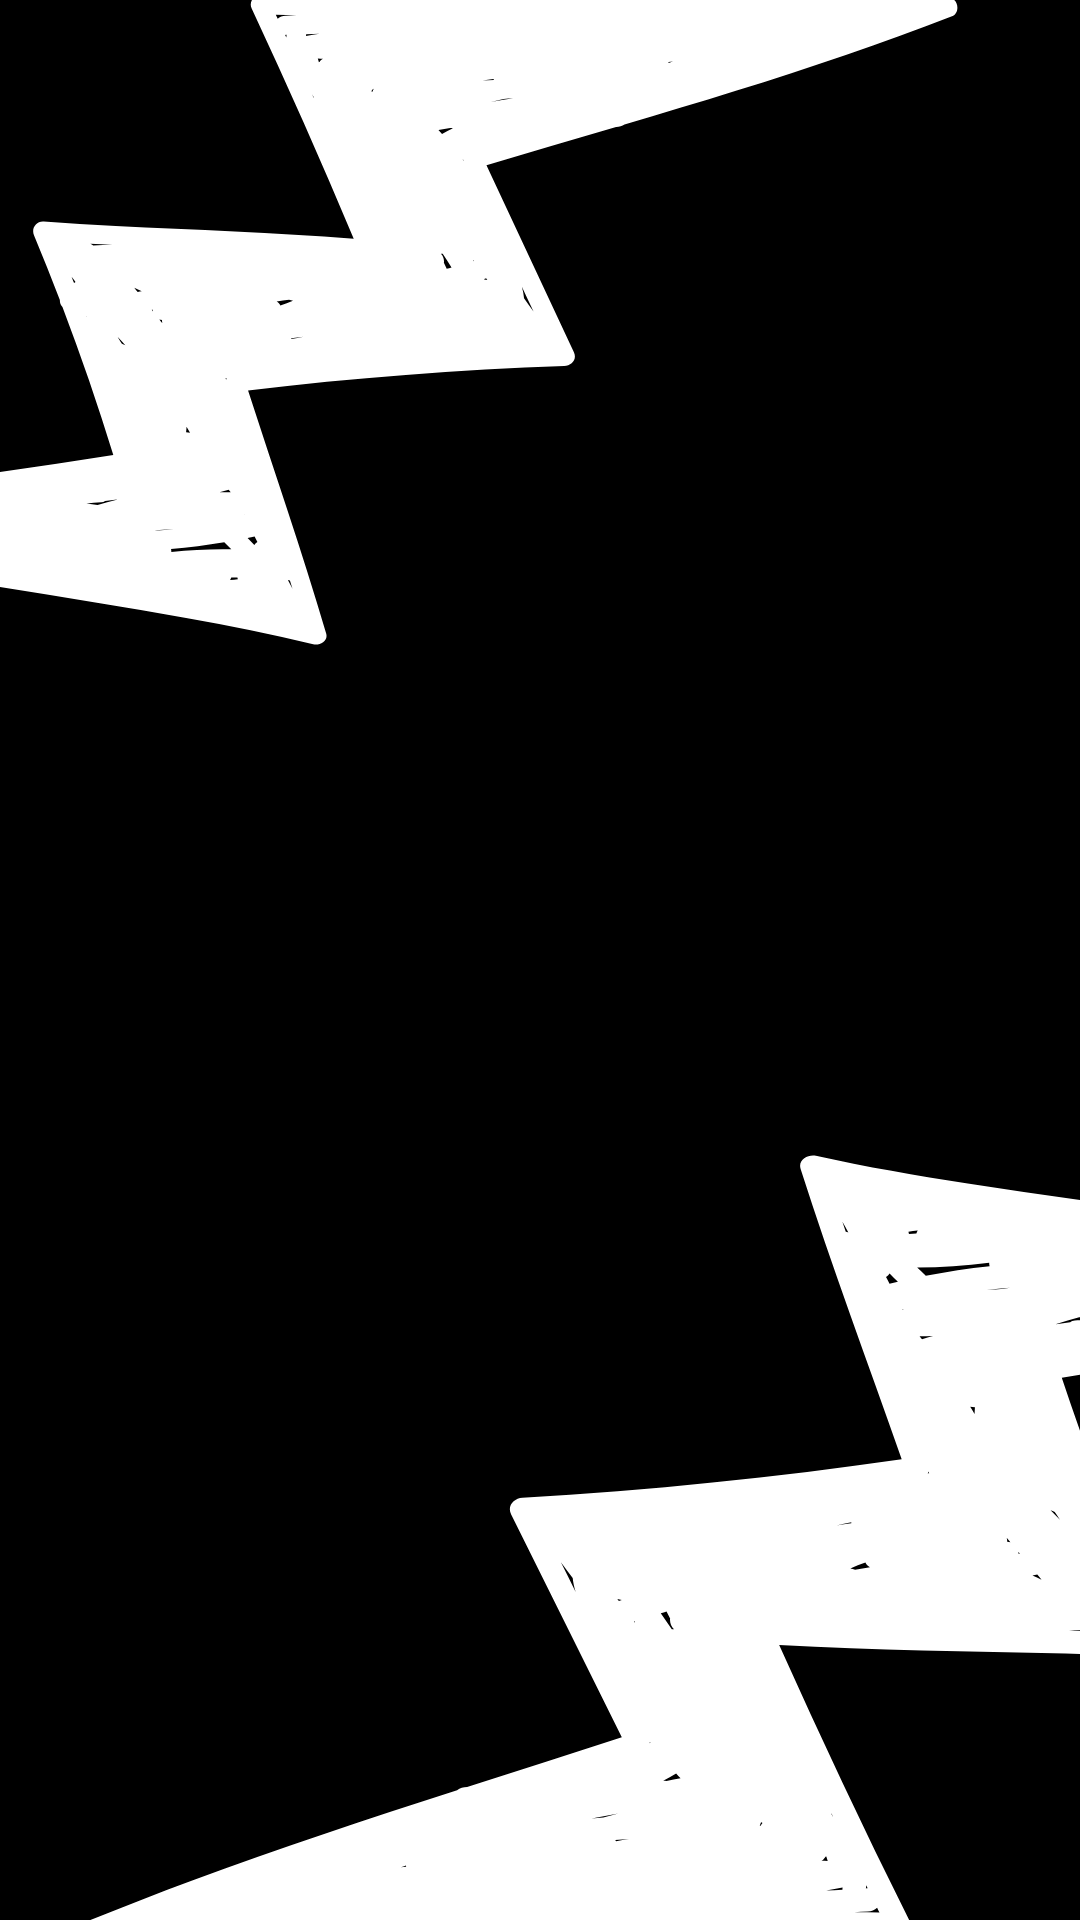
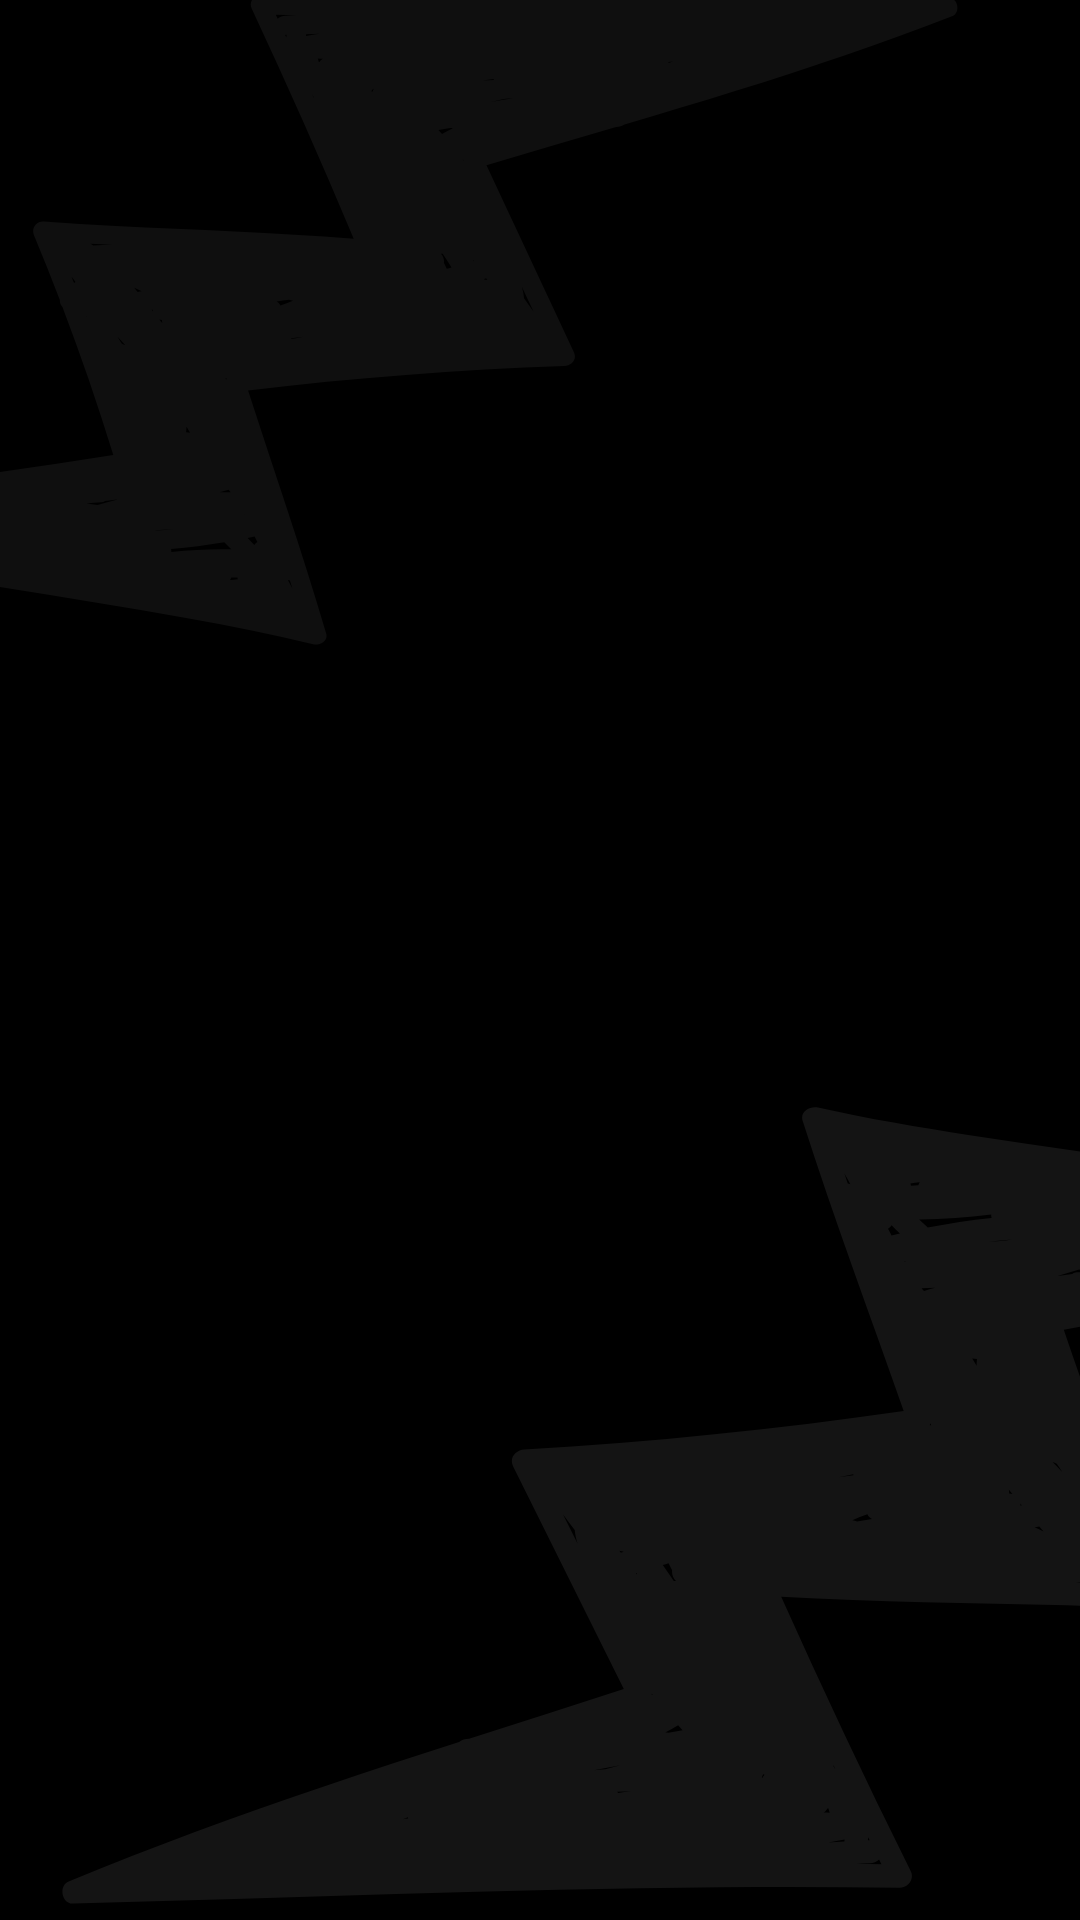
Meejora

Changed region(s): [[0.0917, 0.5938, 1.0, 1.0], [0.0, 0.0, 0.8861, 0.3438]]

diff --git a/frontend/src/components/Bienvenido.jsx b/frontend/src/components/Bienvenido.jsx
@@ -1,36 +1,14 @@
-
 import React, { useState, useEffect } from 'react';
 
 const Bienvenido = ({ onNavigate }) => {
   const [isMobile, setIsMobile] = useState(window.innerWidth < 768);
-  const [fase, setFase] = useState(1); // Controla si estamos en fase 1, 2 o 3
-  const [isHovered, setIsHovered] = useState(false); // Para el efecto hover de la píldora
-  const [mobileShowOffer, setMobileShowOffer] = useState(false); // Para alternar en móvil
 
   useEffect(() => {
-    // Control de responsive para fondos
     const handleResize = () => {
       setIsMobile(window.innerWidth < 768);
     };
     window.addEventListener('resize', handleResize);
-
-    // Temporizador para alternar entre las 3 fases automáticamente
-    const intervalFases = setInterval(() => {
-      setFase((prevFase) => (prevFase === 3 ? 1 : prevFase + 1));
-    }, 4000); // Cambia de fase cada 4 segundos
-
-    // Temporizador exclusivo para móvil que alterna el texto del botón cada 2.5 segundos
-    const intervalMobile = setInterval(() => {
-      if (window.innerWidth < 768) {
-        setMobileShowOffer((prev) => !prev);
-      }
-    }, 2500);
-
-    return () => {
-      window.removeEventListener('resize', handleResize);
-      clearInterval(intervalFases);
-      clearInterval(intervalMobile);
-    };
+    return () => window.removeEventListener('resize', handleResize);
   }, []);
 
   const handleOfertas = () => {
@@ -43,140 +21,145 @@ const Bienvenido = ({ onNavigate }) => {
     }, 100);
   };
 
-  // Si pones el mouse en compu O si el temporizador de móvil está activo, muestra "VER OFERTAS"
-  const showCallToAction = isHovered || (isMobile && mobileShowOffer);
-
   return (
-    // 🔥 Aumentamos la altura en desktop (md:h-[90vh]) para bajar el contenido hasta el límite del corte 🔥
-    <div className="relative w-full h-[360px] md:h-[85vh] overflow-hidden flex flex-col justify-center items-center font-sans pb-32">
+    <div 
+      className="relative w-full md:h-[85vh] md:min-h-[600px] overflow-hidden flex flex-col justify-between items-center font-sans py-4 md:py-12"
+      style={{
+        minHeight: isMobile ? '500px' : 'max(65vh, 600px)'
+      }}
+    >
       
       <style>
         {`
-          /* 🔥 BOTÓN BLANCO ANIMADO CON BRILLO 🔥 */
-          @keyframes btnWhitePulse {
-            0%   { background-color: #ffffff; box-shadow: 0 0 10px rgba(255, 255, 255, 0.3); } 
-            50%  { background-color: #f8fafc; box-shadow: 0 0 25px rgba(255, 255, 255, 0.7); } 
-            100% { background-color: #ffffff; box-shadow: 0 0 10px rgba(255, 255, 255, 0.3); }
+          @keyframes cardEntrance {
+            0% { opacity: 0; transform: translateY(25px) scale(0.95); }
+            100% { opacity: 1; transform: translateY(0) scale(1); }
           }
-          .animate-btn-white { animation: btnWhitePulse 3s ease-in-out infinite; }
-
-          /* Animación suave para cuando rotan las fases de las camisetas */
-          @keyframes phaseZoomIn {
-            0% { opacity: 0; transform: scale(0.93) translateY(8px); }
-            100% { opacity: 1; transform: scale(1) translateY(0); }
+          .animate-card-1 { animation: cardEntrance 0.6s cubic-bezier(0.16, 1, 0.3, 1) forwards; animation-delay: 0.1s; opacity: 0; }
+          .animate-card-2 { animation: cardEntrance 0.6s cubic-bezier(0.16, 1, 0.3, 1) forwards; animation-delay: 0.22s; opacity: 0; }
+          .animate-card-3 { animation: cardEntrance 0.6s cubic-bezier(0.16, 1, 0.3, 1) forwards; animation-delay: 0.34s; opacity: 0; }
+          
+          @keyframes btnEntrance {
+            0% { opacity: 0; transform: translateY(15px) scale(0.95); }
+            100% { opacity: 1; transform: translateY(0) scale(1); }
           }
-          .animate-phase { animation: phaseZoomIn 0.5s cubic-bezier(0.16, 1, 0.3, 1) forwards; }
+          .animate-btn-enter { animation: btnEntrance 0.6s cubic-bezier(0.16, 1, 0.3, 1) forwards; animation-delay: 0.45s; opacity: 0; }
         `}
       </style>
 
-      {/* 🖼️ CAPA BASE: Fondo dinámico (Móvil vs Desktop) */}
+      {/* 🖼️ CAPA BASE: Fondo dinámico */}
       <div 
         className="absolute inset-0 bg-cover bg-center bg-no-repeat z-0 pointer-events-none transition-all duration-700"
         style={{ backgroundImage: `url(${isMobile ? '/FondoMovil.png' : '/FondoDes.png'})` }}
       ></div>
       
-      {/* Capa de oscurecimiento para resaltar las prendas */}
-      <div className={`absolute inset-0 ${isMobile ? 'bg-black/30' : 'bg-black/50'} z-10 pointer-events-none`}></div>
+      {/* Capa de oscurecimiento */}
+      <div className="absolute inset-0 bg-black/50 z-10 pointer-events-none"></div>
 
-      {/* --- CONTENIDO PRINCIPAL --- */}
-      <div className="relative z-20 flex flex-col justify-end items-center w-full max-w-4xl px-4">
-
-        {/* 🔥 CONTENEDOR DINÁMICO DE FASES (CAMISETAS) 🔥 */}
-        <div className=" relative z-20 min-h-[220px] md:min-h-[320px] flex flex-col justify-center items-center mt-16 md:mt-28 mb-2">
-          
-          {/* --- FASE 1: 1 Camiseta --- */}
-          {fase === 1 && (
-            <div className="flex flex-col items-center animate-phase">
-              <div className="pb-8 w-60 md:w-80 relative z-10">
-                <img src="/Mundial.png" className="w-full h-auto object-contain drop-shadow-[0_25px_50px_rgba(0,0,0,0.9)]" alt="1 Camiseta"/>
-              </div>
-            </div>
-          )}
-
-          {/* --- FASE 2: 2 Camisetas --- */}
-          {fase === 2 && (
-            <div className="flex flex-col items-center animate-phase">
-              <div className="flex justify-center items-center w-60 md:w-80 relative z-10">
-                <img src="/Mundial.png" className="w-80 md:w-80 h-auto object-contain -mr-16 md:-mr-20 z-20 drop-shadow-[0_25px_50px_rgba(0,0,0,0.95)]" alt="Camiseta 1"/>
-                <img src="/Fan2.png" className="w-80 md:w-80 h-auto object-contain z-10 drop-shadow-[0_15px_30px_rgba(0,0,0,0.8)] scale-95 transform translate-y-1" alt="Camiseta 2"/>
-              </div>
-            </div>
-          )}
-
-          {/* --- FASE 3: 3 Camisetas --- */}
-          {fase === 3 && (
-            <div className="flex flex-col items-center animate-phase">
-              <div className="flex justify-center items-center w-68 md:w-[400px] relative z-10">
-                {/* Camiseta 1: Mantenemos w-80 y la pegamos al centro con -mr-32 md:-mr-48 */}
-                <img src="/Mundial.png" className="w-60 md:w-80 h-auto object-contain -mr-32 md:-mr-48 z-30 drop-shadow-[0_25px_50px_rgba(0,0,0,0.95)]" alt="Camiseta 1"/>
-                
-                {/* Camiseta 2: Se queda en el centro intacta con w-80 */}
-                <img src="/Fan2.png" className="w-60 md:w-80 h-auto object-contain z-20 drop-shadow-[0_20px_40px_rgba(0,0,0,0.85)] scale-95 transform -translate-y-2" alt="Camiseta 2"/>
-                
-                {/* Camiseta 3: Ajustada a w-80 y pegada hacia la izquierda con -ml-32 md:-ml-48 */}
-                <img src="/Player2.png" className="w-60 md:w-80 h-auto object-contain -ml-32 md:-ml-48 z-10 drop-shadow-[0_15px_30px_rgba(0,0,0,0.7)] scale-90 transform translate-y-1" alt="Camiseta 3"/>
-              </div>
-            </div>
-          )}
-
-        </div>
+      {/* --- CONTENEDOR DE LAS 3 OFERTAS --- */}
+      <div className="relative z-20 flex flex-col md:flex-row items-stretch md:items-center justify-around w-full max-w-6xl px-4 md:px-8 flex-grow my-auto gap-3.5 md:gap-6 py-2">
         
-        {/* 🔥 PÍLDORA INTERACTIVA 2 EN 1 (MÁS COMPACTA EN MÓVIL, GIGANTE EN DESKTOP) 🔥 */}
-        <div className="relative z-30 mt-8 md:mt-16 flex flex-col items-center">
+        {/* ==================== OFERTA 1 (1 CAMISETA) ==================== */}
+        <div className="animate-card-1 w-full max-w-sm mx-auto md:max-w-none md:w-1/3 bg-black/60 md:bg-transparent border border-white/20 md:border-none rounded-2xl px-5 py-3 md:p-4 shadow-xl overflow-hidden flex flex-row md:flex-col items-center justify-between">
           
-          <button
-            onClick={handleOfertas}
-            onMouseEnter={() => setIsHovered(true)}
-            onMouseLeave={() => setIsHovered(false)}
-            // 👇 AQUÍ AJUSTAMOS EL TAMAÑO: h-14 en móvil (md:h-28), min-w-[250px] en móvil (md:min-w-[540px]), px-8 py-3 en móvil 👇
-            className="group bg-white text-gray-950 border-2 border-gray-100 px-8 py-3 md:px-24 md:py-8 rounded-full font-black text-base sm:text-lg md:text-4xl transition-all duration-300 hover:scale-105 animate-btn-white uppercase tracking-wider shadow-[0_20px_50px_rgba(0,0,0,0.9)] flex items-center justify-center min-w-[250px] md:min-w-[540px] h-14 md:h-28 cursor-pointer select-none"
-          >
-            {/* Si el mouse está encima (o en móvil el temporizador activa la llamada), muestra VER OFERTAS */}
-            {showCallToAction ? (
-              <span className="flex items-center gap-2 md:gap-4 text-black animate-fade-in font-extrabold tracking-widest text-lg md:text-4xl">
-                <span>VER OFERTAS </span>
-              </span>
-            ) : (
-              <span className="flex items-center gap-2 md:gap-5 transition-opacity duration-300">
-                {fase === 1 && (
-                  <>
-                    <span className="text-gray-500 font-bold text-base md:text-3xl">1 POR</span>
-                    <span className="font-black text-black tracking-tighter text-xl md:text-5xl">₡15.000</span>
-                  </>
-                )}
-                {fase === 2 && (
-                  <>
-                    <span className="text-gray-500 font-bold text-base md:text-3xl">2 POR</span>
-                    <span className="font-black text-black tracking-tighter text-xl md:text-5xl">₡27.000</span>
-                  </>
-                )}
-                {fase === 3 && (
-                  <>
-                    <span className="text-gray-500 font-bold text-base md:text-3xl">3 POR</span>
-                    <span className="font-black text-black tracking-tighter text-xl md:text-5xl">₡35.000</span>
-                  </>
-                )}
-              </span>
-            )}
-          </button>
+          <div className="flex items-center justify-start md:justify-center w-36 md:w-56 h-20 md:h-48 relative">
+            <img 
+              src="/Mundial.png" 
+              className="w-20 md:w-52 h-auto object-contain drop-shadow-[0_15px_25px_rgba(0,0,0,0.95)]" 
+              alt="1 Camiseta"
+            />
+          </div>
+
+          <div className="flex flex-col items-end md:items-center justify-center md:mt-6 text-right md:text-center">
+            <span className="text-gray-300 font-bold text-xs md:text-xl uppercase tracking-widest drop-shadow-[0_2px_4px_rgba(0,0,0,0.8)]">
+              1 POR
+            </span>
+            <span className="font-black text-white tracking-tighter text-2xl md:text-5xl drop-shadow-[0_4px_10px_rgba(0,0,0,0.9)] leading-none mt-1">
+              ₡15.000
+            </span>
+          </div>
 
         </div>
-      </div>
 
-      {/* 🔥 INDICADORES DE FASE FIJOS HASTA EL BORDE INFERIOR 🔥 */}
-      <div className="absolute bottom-4 md:bottom-8 left-0 right-0 flex gap-3 z-40 items-center justify-center">
-        {[1, 2, 3].map((num) => (
-          <button
-            key={num}
-            onClick={() => setFase(num)}
-            className={`h-[2px] rounded-full transition-all duration-500 ${
-              fase === num 
-                ? 'w-10 bg-gray-300 shadow-[0_0_8px_rgba(255,255,255,0.6)]' 
-                : 'w-4 bg-white/20 hover:bg-white/40'
-            }`}
-            aria-label={`Ver oferta ${num}`}
-          />
-        ))}
+        {/* ==================== OFERTA 2 (2 CAMISETAS) ==================== */}
+        <div className="animate-card-2 w-full max-w-sm mx-auto md:max-w-none md:w-1/3 bg-black/60 md:bg-transparent border border-white/20 md:border-none rounded-2xl px-5 py-3 md:p-4 shadow-xl overflow-hidden flex flex-row md:flex-col items-center justify-between">
+          
+          <div className="flex items-center justify-start md:justify-center w-40 md:w-64 h-20 md:h-48 relative">
+            <img 
+              src="/Mundial.png" 
+              className="w-20 md:w-44 h-auto object-contain z-20 drop-shadow-[0_15px_25px_rgba(0,0,0,0.95)]" 
+              alt="Camiseta 1"
+            />
+            <img 
+              src="/Fan2.png" 
+              className="w-20 md:w-44 h-auto object-contain -ml-10 md:-ml-16 z-10 drop-shadow-[0_10px_20px_rgba(0,0,0,0.8)] scale-95 transform translate-y-1" 
+              alt="Camiseta 2"
+            />
+          </div>
+
+          <div className="flex flex-col items-end md:items-center justify-center md:mt-6 text-right md:text-center">
+            <span className="text-gray-300 font-bold text-xs md:text-xl uppercase tracking-widest drop-shadow-[0_2px_4px_rgba(0,0,0,0.8)]">
+              2 POR
+            </span>
+            <span className="font-black text-white tracking-tighter text-2xl md:text-5xl drop-shadow-[0_4px_10px_rgba(0,0,0,0.9)] leading-none mt-1">
+              ₡27.000
+            </span>
+          </div>
+
+        </div>
+
+        {/* ==================== OFERTA 3 (3 CAMISETAS) ==================== */}
+        <div className="animate-card-3 w-full max-w-sm mx-auto md:max-w-none md:w-1/3 bg-black/60 md:bg-transparent border border-white/20 md:border-none rounded-2xl px-5 py-3 md:p-4 shadow-xl overflow-hidden flex flex-row md:flex-col items-center justify-between">
+          
+          <div className="flex items-center justify-start md:justify-center w-40 md:w-72 h-20 md:h-48 relative">
+            <img 
+              src="/Mundial.png" 
+              className="w-16 md:w-40 h-auto object-contain z-30 drop-shadow-[0_15px_25px_rgba(0,0,0,0.95)]" 
+              alt="Camiseta 1"
+            />
+            <img 
+              src="/Fan2.png" 
+              className="w-16 md:w-40 h-auto object-contain -ml-8 md:-ml-16 z-20 drop-shadow-[0_10px_20px_rgba(0,0,0,0.85)] scale-95 transform -translate-y-1" 
+              alt="Camiseta 2"
+            />
+            <img 
+              src="/Player2.png" 
+              className="w-16 md:w-40 h-auto object-contain -ml-8 md:-ml-16 z-10 drop-shadow-[0_10px_20px_rgba(0,0,0,0.7)] scale-90 transform translate-y-1" 
+              alt="Camiseta 3"
+            />
+          </div>
+
+          <div className="flex flex-col items-end md:items-center justify-center md:mt-6 text-right md:text-center">
+            <span className="text-gray-300 font-bold text-xs md:text-xl uppercase tracking-widest drop-shadow-[0_2px_4px_rgba(0,0,0,0.8)]">
+              3 POR
+            </span>
+            <span className="font-black text-white tracking-tighter text-2xl md:text-5xl drop-shadow-[0_4px_10px_rgba(0,0,0,0.9)] leading-none mt-1">
+              ₡35.000
+            </span>
+          </div>
+
+        </div>
+
+      </div>
+      
+      {/* --- BOTÓN CENTRADO INFERIOR --- */}
+      <div className="relative z-30 mt-2 md:mt-4 flex flex-col items-center w-full px-4 animate-btn-enter">
+        <button
+          onClick={handleOfertas}
+          className="bg-white text-gray-950 border-2 border-gray-100 px-8 py-3 md:px-16 md:py-6 rounded-full font-black text-sm md:text-2xl transition-all duration-300 hover:scale-105 hover:bg-gray-50 uppercase tracking-wider shadow-[0_15px_35px_rgba(0,0,0,0.9)] flex items-center justify-center min-w-[240px] md:min-w-[400px] h-12 md:h-20 cursor-pointer select-none active:scale-95"
+        >
+          <span className="flex items-center gap-2 md:gap-3 text-black font-extrabold tracking-widest">
+            <span>VER OFERTAS</span>
+            <svg 
+              className="w-4 h-4 md:w-6 md:h-6" 
+              fill="none" 
+              viewBox="0 0 24 24" 
+              stroke="currentColor"
+            >
+              <path strokeLinecap="round" strokeLinejoin="round" strokeWidth={3} d="M14 5l7 7m0 0l-7 7m7-7H3" />
+            </svg>
+          </span>
+        </button>
       </div>
 
     </div>